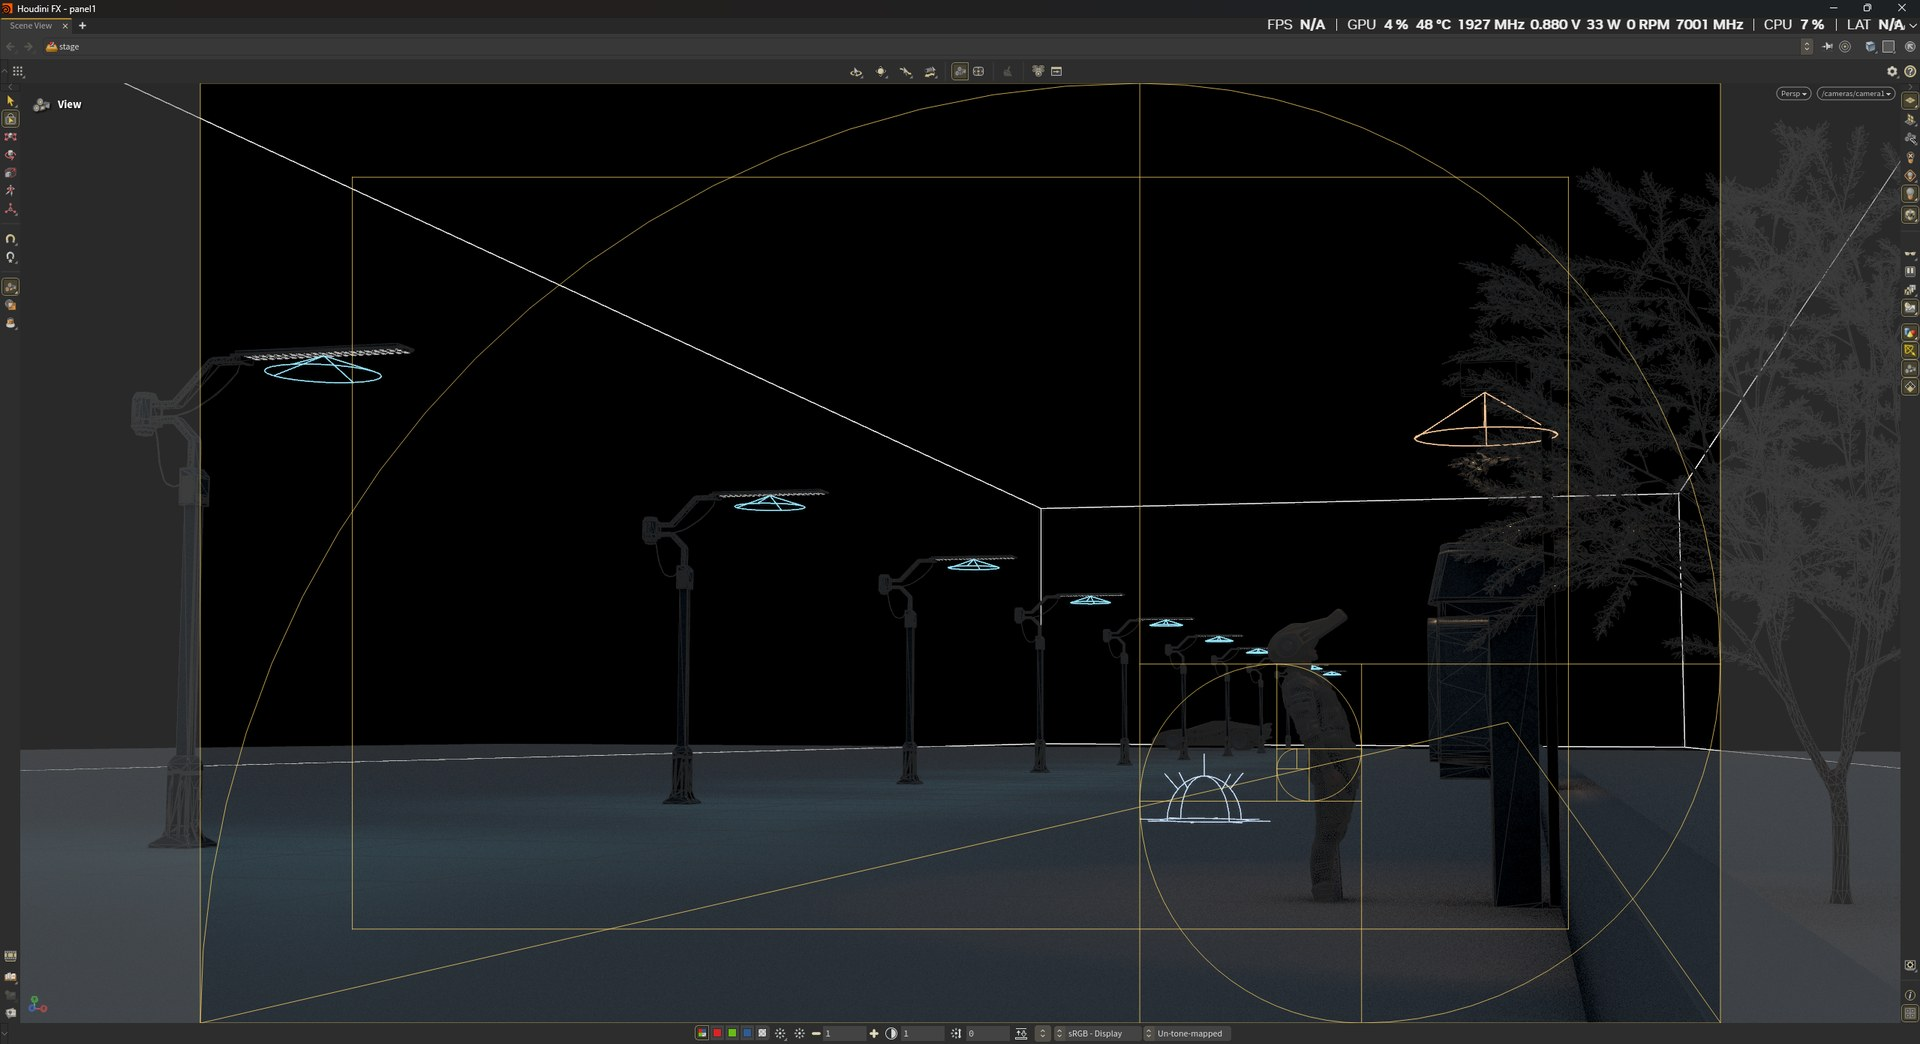
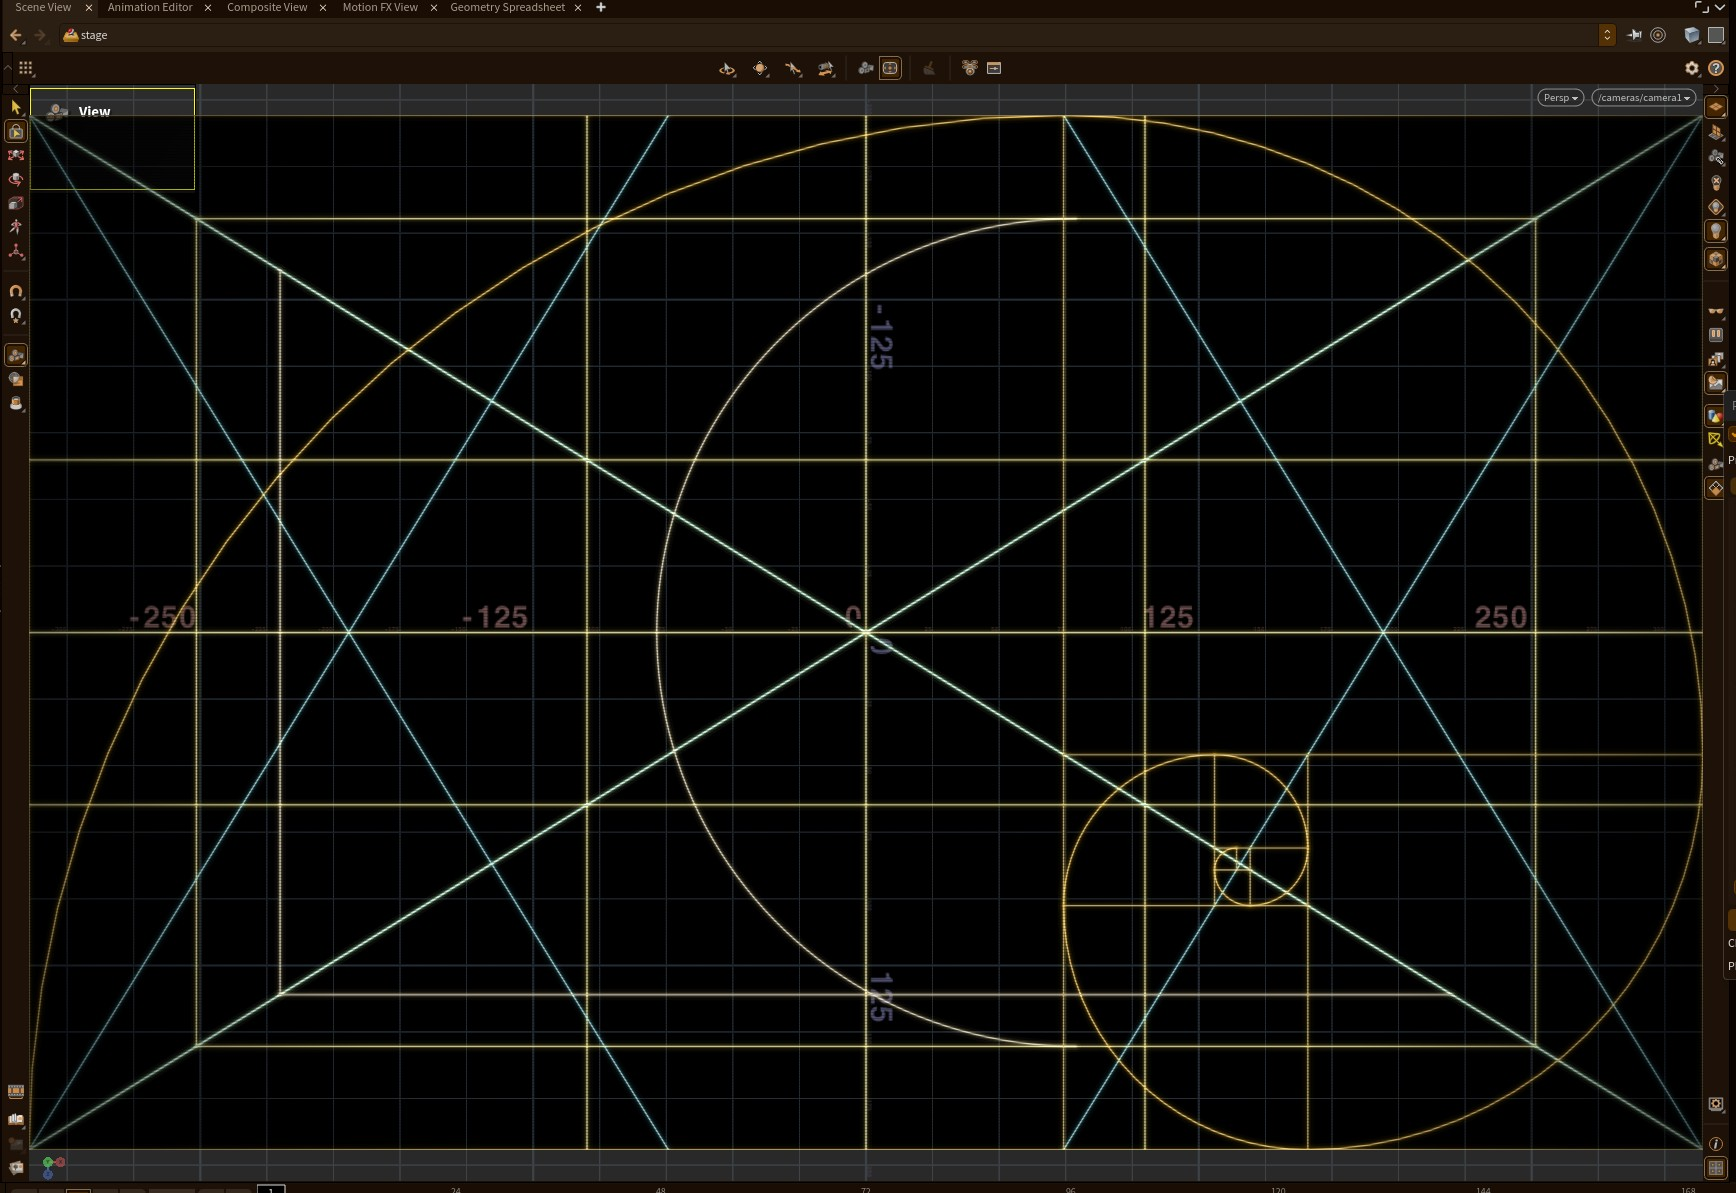
README: new main screenshot (glow and color scheme in Houdini 22)

diff --git a/README.md b/README.md
@@ -7,7 +7,7 @@ balance and more, drawn live over your Scene Viewer while you move the camera. F
 
 PhiAxis is an overlay: it adds no nodes, changes nothing in your scene, and never appears in a render.
 
-![PhiAxis drawing a golden spiral, golden rectangles and a frame over a Solaris camera in Houdini](docs/images/01_phiaxis_in_houdini.jpg)
+![PhiAxis in Houdini 22: golden spiral, golden rectangles, diagonals and thirds drawn as glowing lines in the viewport](docs/images/01_phiaxis_in_houdini.jpg)
 
 | | |
 | --- | --- |
@@ -95,4 +95,4 @@ removed on request.
 - Centered frame within a frame, central symmetry, centered composition and the combined balance shot use screenshots from *Alan Wake 2*
   (Remedy Entertainment; published by Epic Games Publishing).
 - The posed figure is SideFX's Electra test character that ships with Houdini.
-- The first screenshot shows PhiAxis over a Solaris camera view.
+- The first screenshot shows PhiAxis's glow and color scheme over the viewport grid in Houdini 22.
